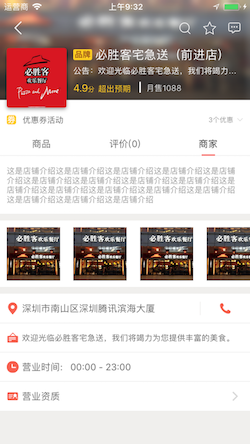
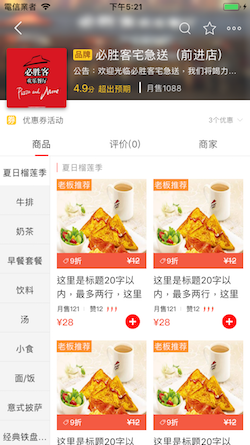
优化

diff --git a/CKMeiTuanShopView/CKMeiTuanShopView/TakeawayShopView/ShopHomePageView.m b/CKMeiTuanShopView/CKMeiTuanShopView/TakeawayShopView/ShopHomePageView.m
@@ -188,13 +188,13 @@
 #pragma mark -  UICollectionViewDataSource/UICollectionViewDelegate
 - (NSInteger)numberOfSectionsInCollectionView:(UICollectionView *)collectionView
 {
-    return 11;
+    return _titlesAry.count;
 }
 
 //这组多少item
 - (NSInteger)collectionView:(UICollectionView *)collectionView numberOfItemsInSection:(NSInteger)section
 {
-    return self.productList.count;
+    return 11;
 }
 
 - (UICollectionReusableView *)collectionView:(UICollectionView *)collectionView viewForSupplementaryElementOfKind:(NSString *)kind atIndexPath:(NSIndexPath *)indexPath

diff --git a/CKMeiTuanShopView/CKMeiTuanShopView/TakeawayShopView/TakeawayShopView.m b/CKMeiTuanShopView/CKMeiTuanShopView/TakeawayShopView/TakeawayShopView.m
@@ -745,14 +745,15 @@
     //推荐回调
     if (index == 0) {
         //购物车
-       
+        NSLog(@"购物车");
     }else{
         //消息中心
-      
+        NSLog(@"消息中心");
     }
 }
 
 -(void)shopCartBtn{
+    
 }
 
 - (void)ybPopupMenuBeganDismiss
@@ -792,7 +793,7 @@
     if (_alpha < 0) {
         _alpha = 0;
     }
-//    CGFloat alpha2 = MIN(1, fabs((offsetY - _startChange_Y)/(_maxOffset_Y - _startChange_Y)));
+    
     CGFloat alpha2 = 0;
     if (_alpha >= 0.6) {
         alpha2 = (_alpha - 0.6)/0.4;

diff --git a/CKMeiTuanShopView/CKMeiTuanShopView/TakeawayShopView/ShopScrollView.m b/CKMeiTuanShopView/CKMeiTuanShopView/TakeawayShopView/ShopScrollView.m
@@ -79,7 +79,7 @@ static CGFloat rubberBandDistance(CGFloat offset, CGFloat dimension) {
         //创建上下滑动的scrollview
         [self addSubview:self.subScrollView];
 #warning mark - 在这里暂时改变商家主页样式
-        self.shopViewType = 1;//
+        self.shopViewType = 2;//
         [self.subScrollView addSubview:self.shopHomePageView];//店铺主页
         [self.subScrollView addSubview:self.shopEvaluateView];//评价
         [self.subScrollView addSubview:self.merchantView];//商家

diff --git a/CKMeiTuanShopView/CKMeiTuanShopView/TakeawayShopView/TakeawayShopMainVC.m b/CKMeiTuanShopView/CKMeiTuanShopView/TakeawayShopView/TakeawayShopMainVC.m
@@ -2,7 +2,7 @@
 //  TakeawayShopMainVC.m
 //  AppPark
 //
-//  Created by 池康 on 2018/7/3.
+//  Created by CK on 2018/7/3.
 //
 
 #import "TakeawayShopMainVC.h"

diff --git a/CKMeiTuanShopView/CKMeiTuanShopView/TakeawayShopView/TakeawayShopMainVC.h b/CKMeiTuanShopView/CKMeiTuanShopView/TakeawayShopView/TakeawayShopMainVC.h
@@ -2,7 +2,7 @@
 //  TakeawayShopMainVC.h
 //  AppPark
 //
-//  Created by 池康 on 2018/7/3.
+//  Created by CK on 2018/7/3.
 //
 #import <UIKit/UIKit.h>
 

diff --git a/CKMeiTuanShopView/CKMeiTuanShopView/TakeawayShopView/TakeawayShopView.h b/CKMeiTuanShopView/CKMeiTuanShopView/TakeawayShopView/TakeawayShopView.h
@@ -2,7 +2,7 @@
 //  TakeawayShopView.h
 //  AppPark
 //
-//  Created by 池康 on 2018/7/10.
+//  Created by CK on 2018/7/10.
 //
 
 #import <UIKit/UIKit.h>

diff --git a/README.md b/README.md
@@ -4,15 +4,18 @@
 
 
 
-![店铺商品](/image/1.png)
+![店铺商品列表样式](/image/1.png)
 
-![店铺评价](/image/2.png)
+![店铺商品卡片样式](/image/2.png)
 
-![商家介绍](/image/3.png)
+![店铺商品九宫格样式](/image/3.png)
 
 ![店铺活动](/image/4.png)
 
-![二级联动](/image/5.png)
+![商家介绍](/image/5.png)
+
+![店铺活动](/image/6.png)
+
 
 **⚠注意：demo只作为参考，如需使用，请熟悉代码，自行修改～**
 
